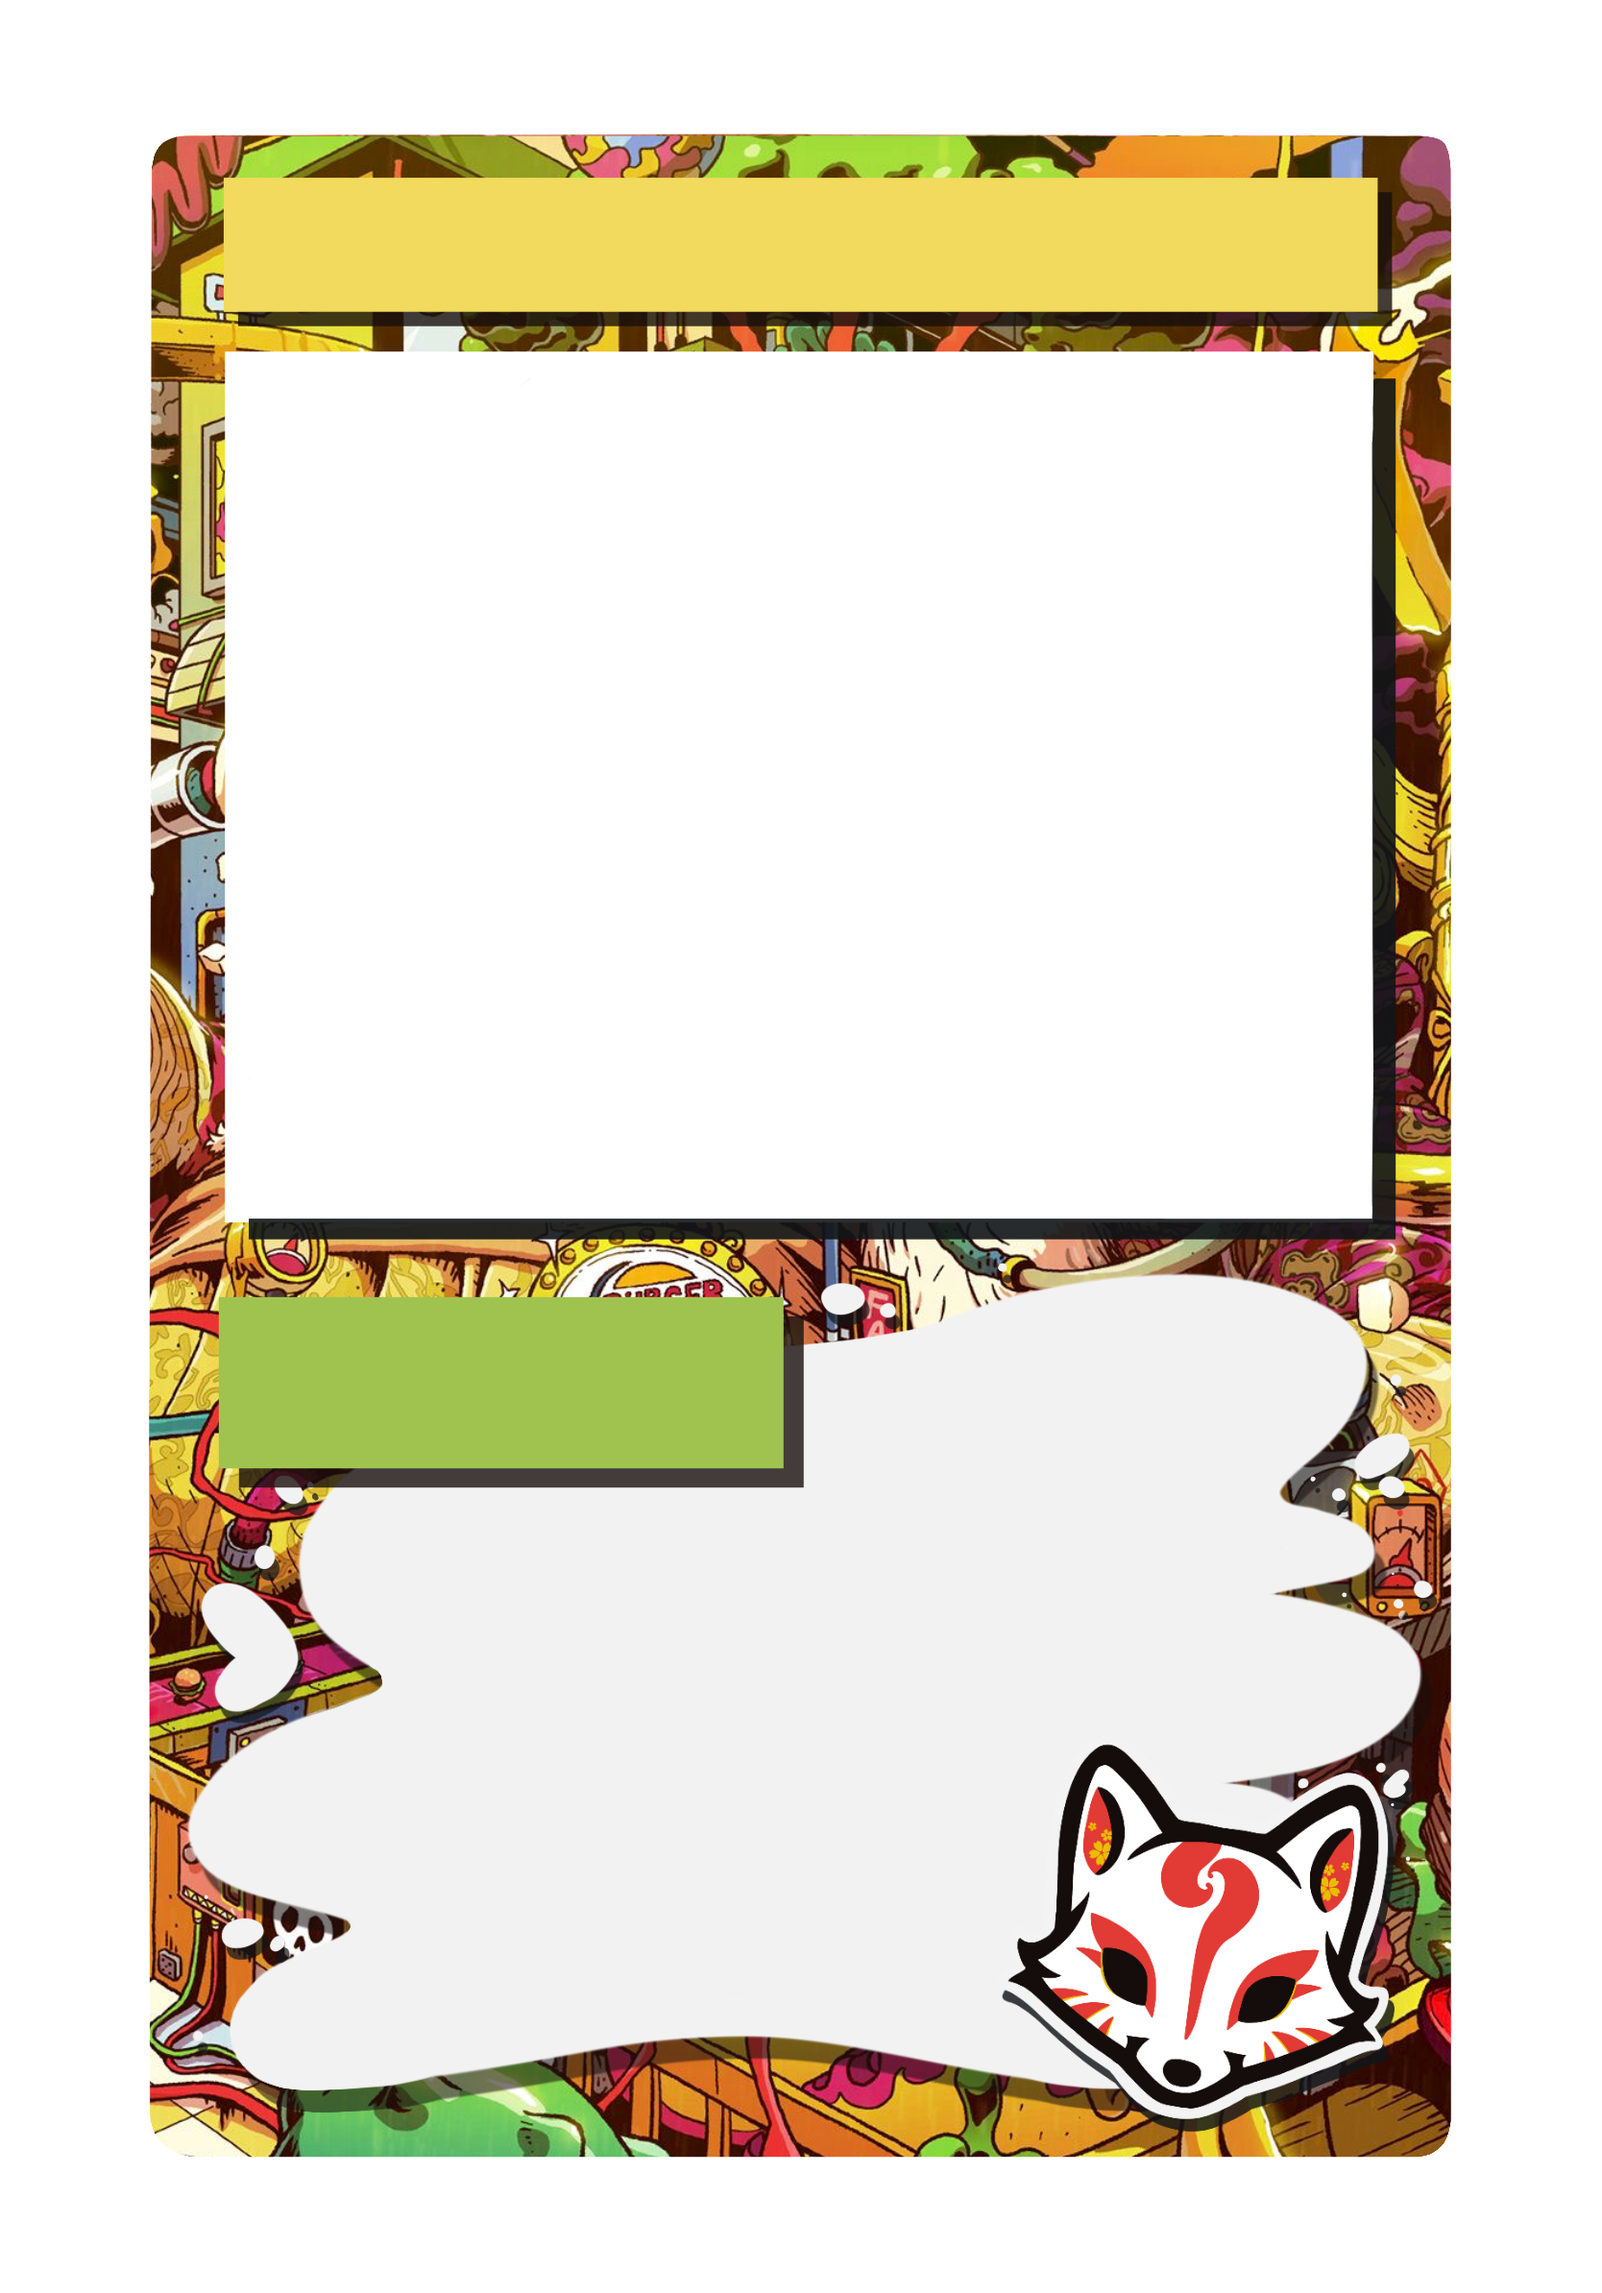
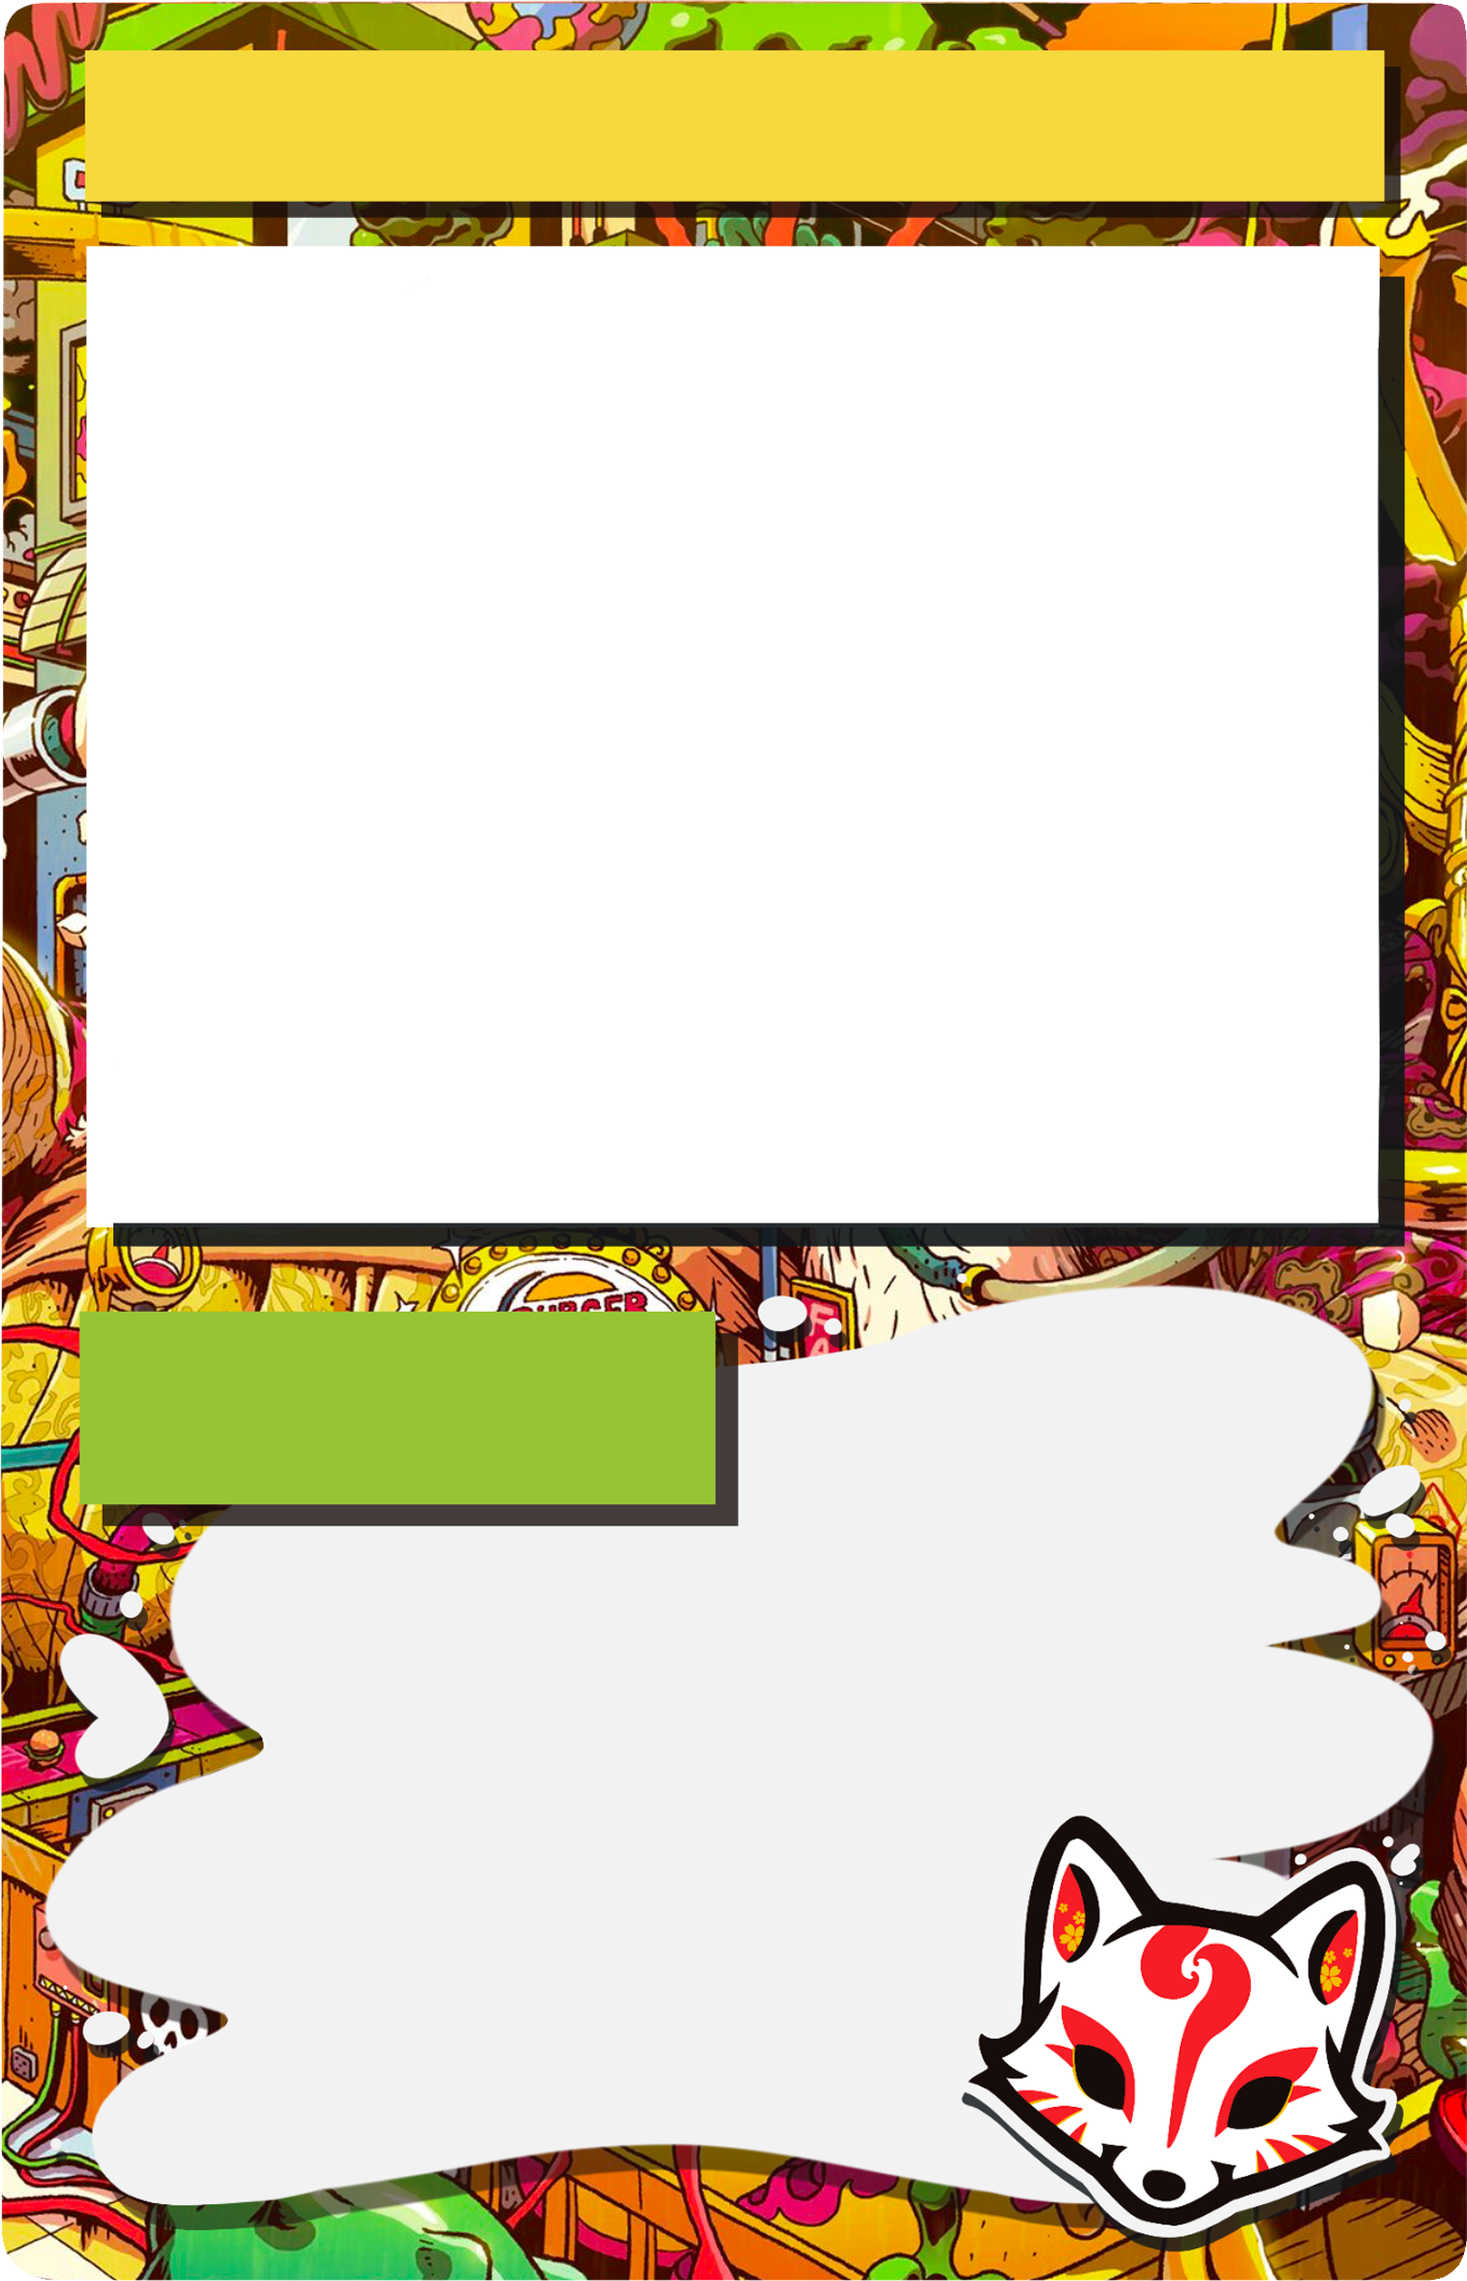
added card generation function

diff --git a/commands/booster - utilities/card.js b/commands/booster - utilities/card.js
@@ -1,0 +1,40 @@
+const commando = require('discord.js-commando')
+const claimedSchema = require('../../schema/childschema/claimedroleschema.js')
+const Canvas = require('canvas')
+const { MessageAttachment } = require('discord.js')
+module.exports = class UtilityCommand extends commando.Command{
+  constructor(client){
+    super(client,{
+      name: 'card',
+      description:"Displays the role card you own",
+      group: "boosterutilities",
+      memberName: 'card',
+      guildOnly: true,
+      argsType: 'multiple'
+    })
+  }
+  async run(message, args){
+    const { guild, client, author } = message
+    
+    const rolequery = await claimedSchema.find({userID: author.id, guildID: guild.id})
+    console.log(rolequery)
+    if(rolequery.length == 0) return message.reply("I can't find this role!")
+    const imageurl = rolequery[0].cardImageURL
+    const template = rolequery[0].template
+
+    const canvas = Canvas.createCanvas(1528,2375)
+    const ctx = canvas.getContext('2d')
+    const image = await Canvas.loadImage(imageurl)
+    console.log(image.width)
+    console.log(image.height)
+    const newwidth = 1454
+    const newheight = (1454/image.width)*image.height
+    const background = await Canvas.loadImage(`${__dirname}/${template}`)
+    await ctx.drawImage(image, 88 , 125 , newwidth , newheight)
+    await ctx.drawImage(background, 0 , 0 ,1528, 2375)
+    const buffer = canvas.toBuffer();
+    const attachment = new MessageAttachment(buffer, 'image.png')
+    message.channel.send(attachment)
+    
+  }
+}

diff --git a/index.js b/index.js
@@ -29,6 +29,9 @@ server.all('/', (req, res) => {
 client.login(token)
 client.on('ready', message => {
     server.listen(3000, async() => {
+        client.user.setPresence({activity: {name: "Slashing ようかいs", type: "COMPETING"}, status: 'dnd'})
+            .then(console.log)
+            .catch(console.error)
         console.log("Server is now up and running")
         mongoose.connect(URI, {useNewUrlParser: true, useUnifiedTopology: true})
         mongoose.set('useFindAndModify', false)
